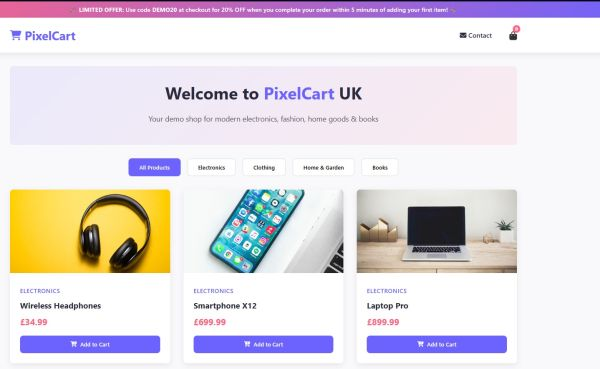
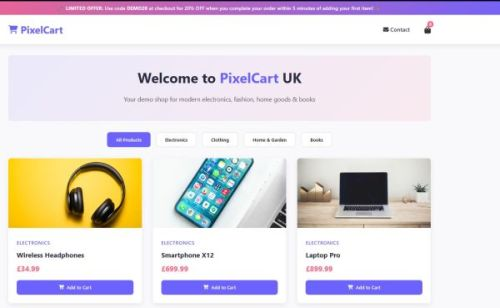
ToDoList added with full-stack MVC, PostgreSQL on Render, React on Netlify, content filtering

diff --git a/index.html b/index.html
@@ -39,6 +39,34 @@
             <p>Recent projects built with React, Node.js, Express, PostgreSQL, and vanilla JavaScript. Features include live API integration (Reddit, Last.fm, TMDB), custom REST APIs with Swagger documentation, and responsive modern UIs.</p>
         
             <div class="projects-grid">
+                <!-- Proiect: Get It Done - Full-Stack Task Manager -->
+                <article class="project-card" onclick="window.open('https://getitdone-dev.netlify.app', '_blank')">
+                    <div class="project-image">
+                        <img src="images/getitdone-preview.jpg" alt="Get It Done App Preview" onerror="this.style.display='none'; this.nextElementSibling.style.display='flex';">
+                        <div class="image-placeholder" style="display: none; background: linear-gradient(135deg, #667eea 0%, #764ba2 100%); height: 200px; align-items: center; justify-content: center; color: white; font-size: 1.2rem;">
+                            ✅ Get It Done
+                        </div>
+                    </div>
+                    <div class="project-content">
+                        <h3>Get It Done — Full-Stack Task Manager (MVC)</h3>                        
+                        <p>A full-stack to-do list application built with the MVC architecture. Users can add, view, and delete tasks, with a content filter to block inappropriate language. The backend features a REST API (Node.js + Express), a PostgreSQL database hosted on Render, and automated table creation. The frontend is a responsive React app deployed on Netlify. This project demonstrates complete full-stack development, from database design to live deployment.</p>
+                        <div class="project-tech">
+                            <span class="tech-tag">Node.js</span>
+                            <span class="tech-tag">Express</span>
+                            <span class="tech-tag">PostgreSQL</span>
+                            <span class="tech-tag">React</span>
+                            <span class="tech-tag">REST API</span>
+                            <span class="tech-tag">Render (DB + Backend)</span>
+                            <span class="tech-tag">Netlify (Frontend)</span>
+                            <span class="tech-tag">CSS3 (Glassmorphism)</span>
+                        </div>
+                        <div class="project-links">
+                            <a href="https://getitdone-dev.netlify.app" target="_blank" class="btn btn-primary" onclick="event.stopPropagation()">Live Demo</a>
+                            <a href="https://github.com/DumitruCraciun/ToDoList" target="_blank" class="btn btn-secondary" onclick="event.stopPropagation()">GitHub Repo</a>
+                        </div>
+                    </div>
+                </article>
+
                 <!-- Proiect: PixelCart - Full-Stack E-commerce API + Frontend -->
                 <article class="project-card" onclick="window.open('https://pixel-cart-dev.netlify.app/', '_blank')">
                     <div class="project-image">
@@ -61,12 +89,12 @@
                             <span class="tech-tag">Render + Neon</span>
                         </div>
 
-<!-- Link-uri utile pentru demonstrarea backend-ului -->
-<div style="margin-top: 1rem; font-size: 0.85rem;">
-    🔗 <a href="https://pixelcart-backend-sjn6.onrender.com/api-docs" target="_blank" onclick="event.stopPropagation()">API Documentation (Swagger)</a>
-    &nbsp;|&nbsp;
-    <a href="https://pixelcart-backend-sjn6.onrender.com/health" target="_blank" onclick="event.stopPropagation()">API Health Check</a>
-</div>
+                        <!-- Link-uri utile pentru demonstrarea backend-ului -->
+                        <div style="margin-top: 1rem; font-size: 0.85rem;">
+                            🔗 <a href="https://pixelcart-backend-sjn6.onrender.com/api-docs" target="_blank" onclick="event.stopPropagation()">API Documentation (Swagger)</a>
+                            &nbsp;|&nbsp;
+                            <a href="https://pixelcart-backend-sjn6.onrender.com/health" target="_blank" onclick="event.stopPropagation()">API Health Check</a>
+                        </div>
 
                         <div class="project-links">
                             <a href="https://pixel-cart-dev.netlify.app/" target="_blank" class="btn btn-primary" onclick="event.stopPropagation()">Live Demo</a>
@@ -236,33 +264,44 @@
         </section>
         
         <section id="skills">
-            <h2>Front-End Skills</h2>
+            <h2>Front-End Development</h2>
             <ul>
-                <li><strong>HTML5</strong> (Semantic elements, Forms, Accessibility)</li>
-                <li><strong>CSS3</strong> (Flexbox, Grid, Animations, Responsive Design)</li>
-                <li><strong>JavaScript</strong> (ES6+, DOM manipulation, Events, Fetch API, Async/Await)</li>
-                <li><strong>React</strong> (Hooks, Components, State Management, Router, Context API)</li>
-                <li><strong>REST API Integration</strong> (TMDB, external APIs)</li>
-                <li><strong>Git & GitHub</strong> (Version control, collaboration, GitHub Pages)</li>
-                <li><strong>Responsive Web Design</strong></li>
+                <li><strong>HTML5</strong> - Semantic markup, accessibility, forms</li>
+                <li><strong>CSS3</strong> - Flexbox, Grid, responsive design, animations</li>
+                <li><strong>JavaScript (ES6+)</strong> - DOM manipulation, events, async/await, modules</li>
+                <li><strong>React</strong> - Components, Hooks, Router, state management</li>
+                <li><strong>Redux Toolkit</strong> - Global state management and async actions</li>
+            </ul>
+        </section>
+
+        <section id="skills">
+            <h2>Back-End & Databases</h2>
+            <ul>
+                <li><strong>Node.js & Express</strong> - REST APIs, routing, middleware</li>
+                <li><strong>PostgreSQL</strong> - Database design, normalization, optimization</li>
+                <li><strong>Authentication</strong> - Sessions, OAuth 2.0, authorization concepts</li>
+                <li><strong>API Development</strong> - REST, Swagger, OpenAPI documentation</li>
+                <li><strong>Testing</strong> - Mocha, TDD, backend and frontend testing</li>
             </ul>
         </section>
 
         <section id="other-skills">
-            <h2>Other Skills & Technologies</h2>
+            <h2>Software Engineering & Infrastructure</h2>
             <ul>
                 <li><strong>C# (.NET) - Desktop & Automation</strong> - WinForms, DLL libraries, file processing (CSV, XML, SFTP), data validation, email automation</li>
-                <li><strong>SQL & Database Systems</strong> - Relational schema design, complex queries, stored procedures, reporting, logging, data integrity</li>
-                <li><strong>Data Pipelines & ETL</strong> - Automated SFTP ingestion, validation, processing of millions of records, version tracking, file extraction</li>
-                <li><strong>Business Logic & Architecture</strong> - Multi-layer design (UI/BLL/DAL), CRUD encapsulation, OOP principles, clean code, maintainability</li>
-                <li><strong>Utility & Workflow Tools</strong> - Search & filtering, editing/export, backup & restore, scheduling, job stage tracking, client-specific DB access</li>
-                <li><strong>Problem-Solving & System Architecture</strong> - End-to-end solutions from requirements to deployment, scalable design, integration of multiple services</li>
+                <li><strong>SQL & Database Systems</strong> - Relational database design, complex queries, stored procedures, reporting, logging, data integrity</li>
+                <li><strong>Git & GitHub</strong> - Version control, repository management, branching, pull requests, collaboration workflows and source code tracking</li>
+                <li><strong>Deployment & Hosting</strong> - GitHub Pages, Netlify and Render deployment, application publishing, environment configuration and release management</li>
+                <li><strong>Web Security & APIs</strong> - REST APIs, OpenAPI/Swagger, authentication, authorization, TLS, RBAC, XSS, CSRF and SQL Injection prevention</li>
+                <li><strong>DevOps Fundamentals</strong> - CI/CD concepts, deployment pipelines, infrastructure principles, monitoring and software delivery workflows</li>
+                <li><strong>Networking & Infrastructure</strong> - CCNA-certified, TCP/IP, DNS, DHCP, VLANs, routing, switching, connectivity troubleshooting and network fundamentals</li>
+                <li><strong>Problem Solving & Software Engineering</strong> - Data structures, algorithms, debugging, system analysis, performance optimisation and end-to-end solution design</li>                
             </ul>
         </section>
 
         <section id="contact">
             <h2>Let's Connect</h2>
-            <p class="contact-intro">I'm actively building my front-end portfolio and looking for opportunities to collaborate or contribute.</p>
+            <p class="contact-intro">I'm a Software Developer with experience in C#, SQL and full-stack web development, always interested in new challenges, collaborations and learning opportunities.</p>
             
             <div class="contact-container">
                 <!-- Coloana stângă - Info personale -->
@@ -291,8 +330,8 @@
                     <div class="csharp-card">
                         <span class="csharp-icon">⚙</span>
                         <div class="csharp-content">
-                            <h3>Back-End Experience</h3>
-                            <p>Check out my C# desktop applications and SQL integrations</p>
+                            <h3>C# .NET Projects</h3>
+                            <p>Explore my desktop applications, automation tools and database-driven solutions built with C# and SQL.</p>
                             <a href="https://portfolio-csharp-dev.netlify.app/" target="_blank" class="btn-csharp">
                                 View C# Portfolio <span class="arrow">→</span>
                             </a>
